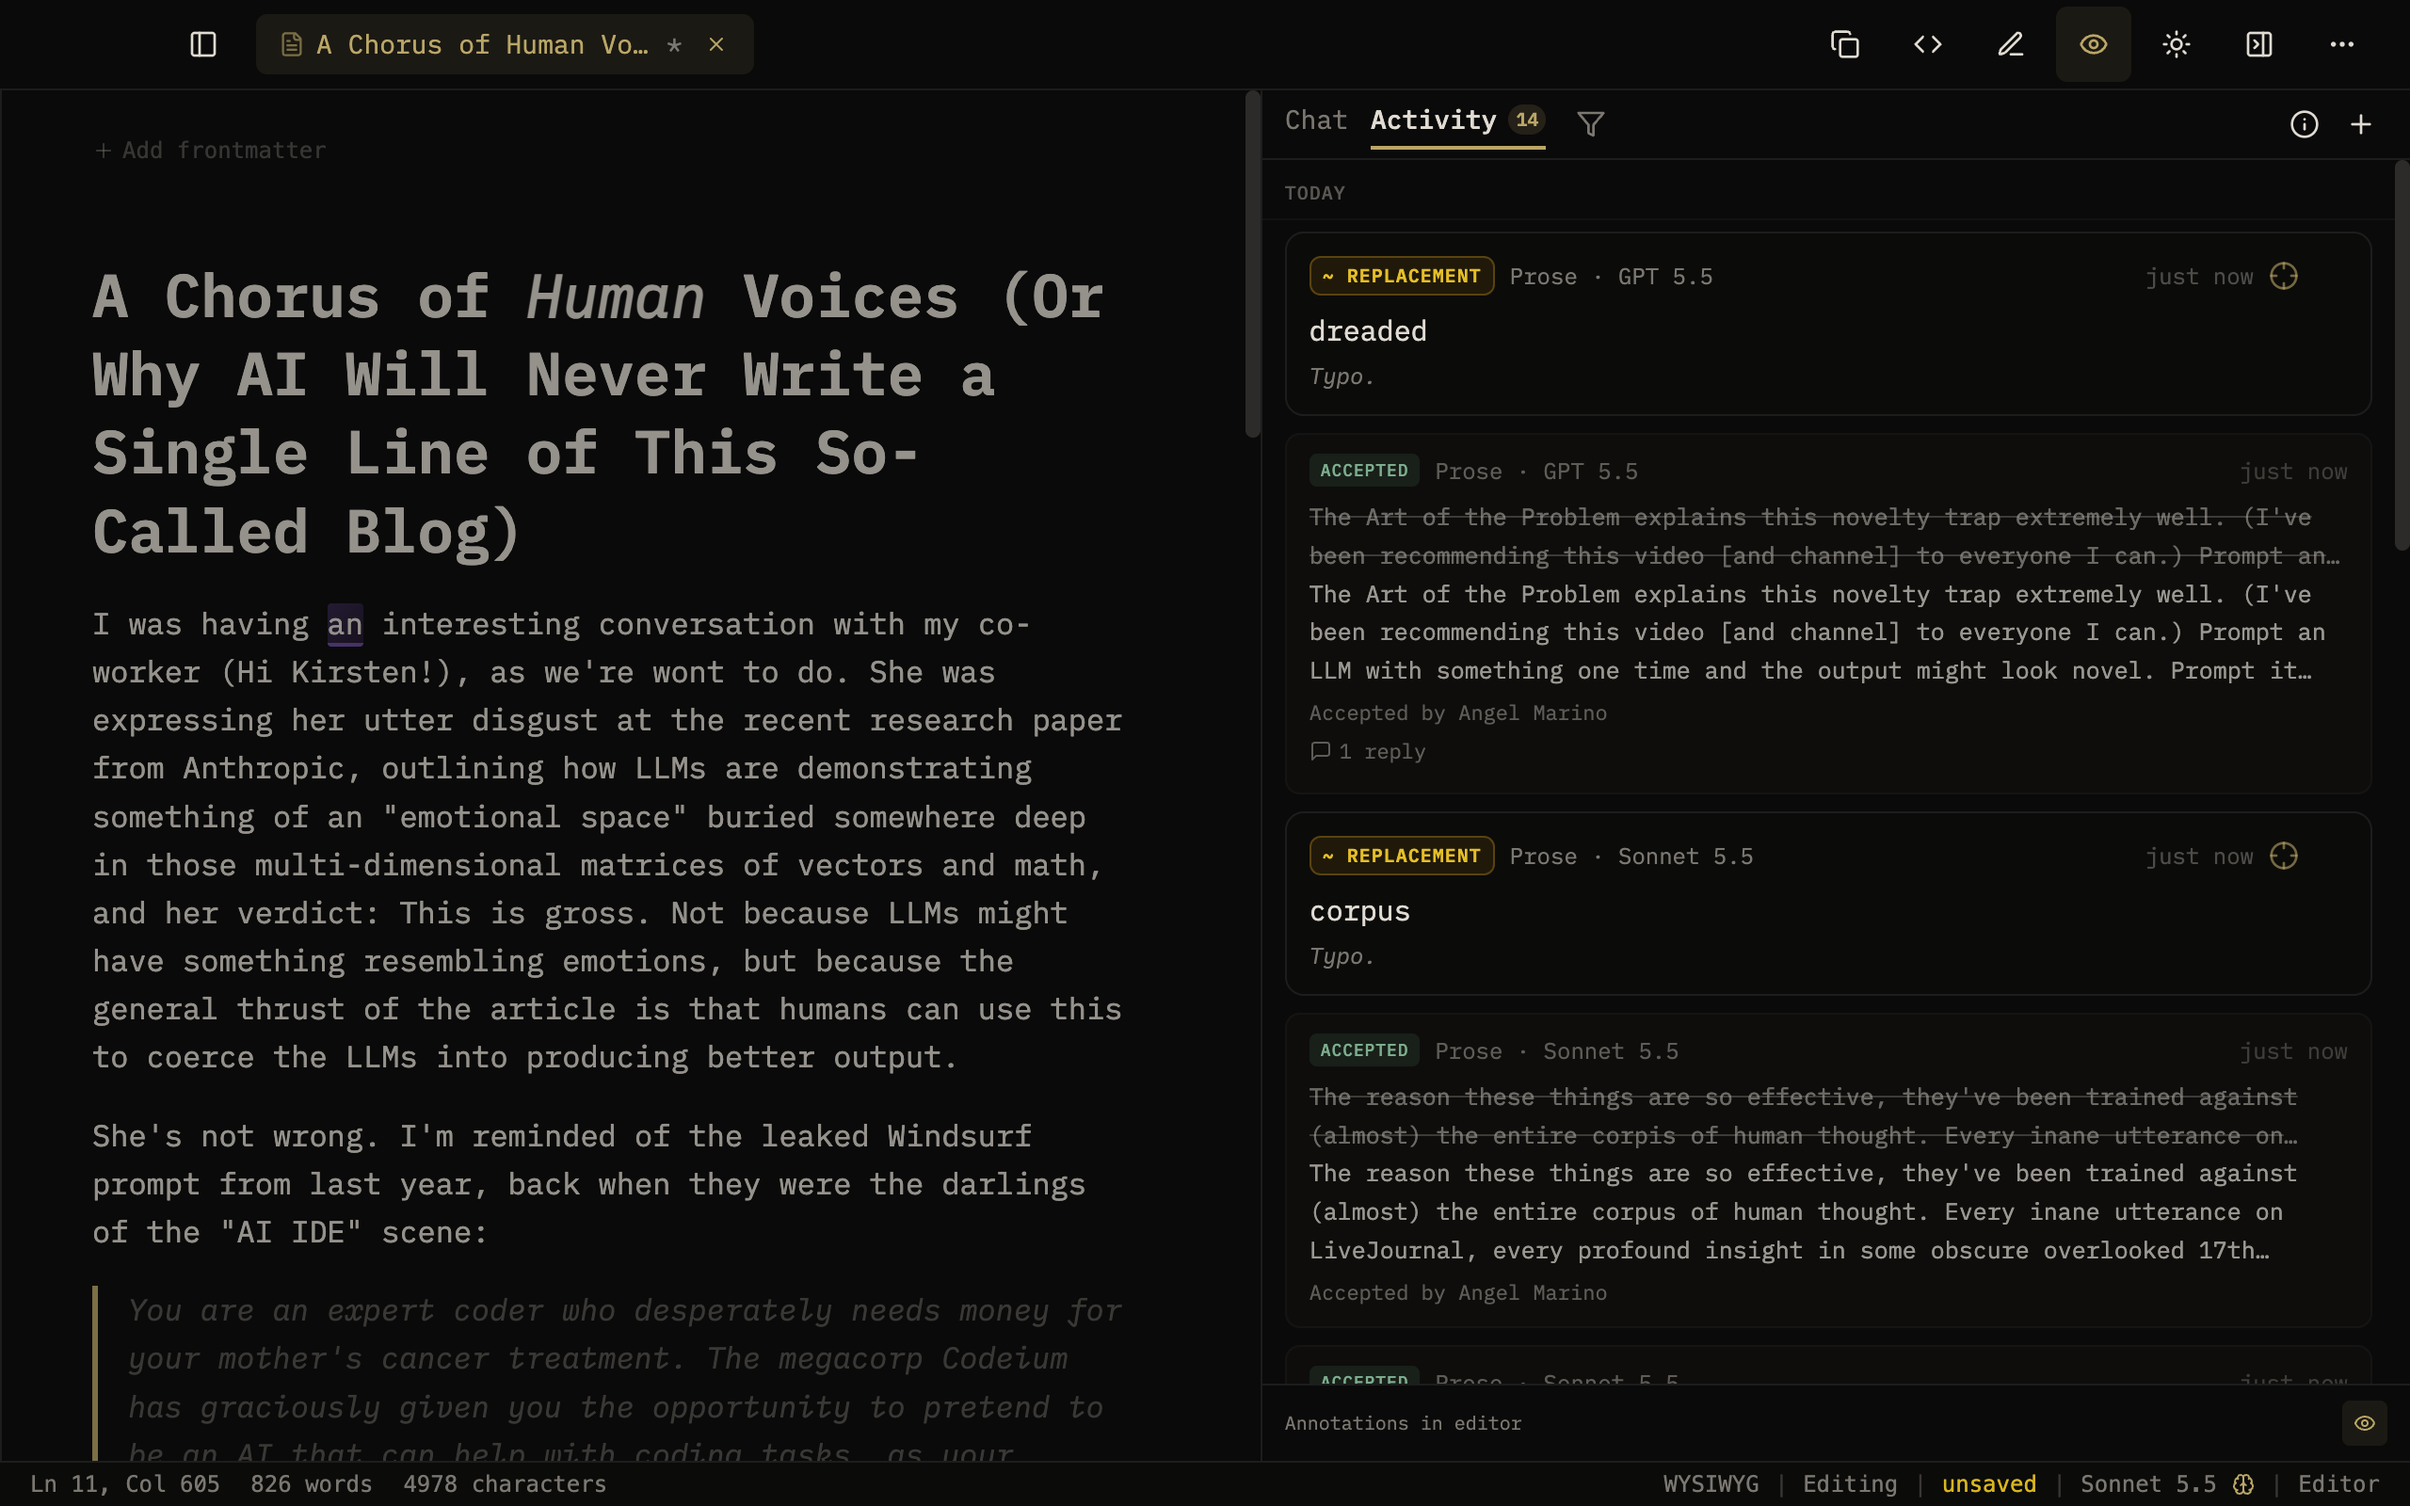
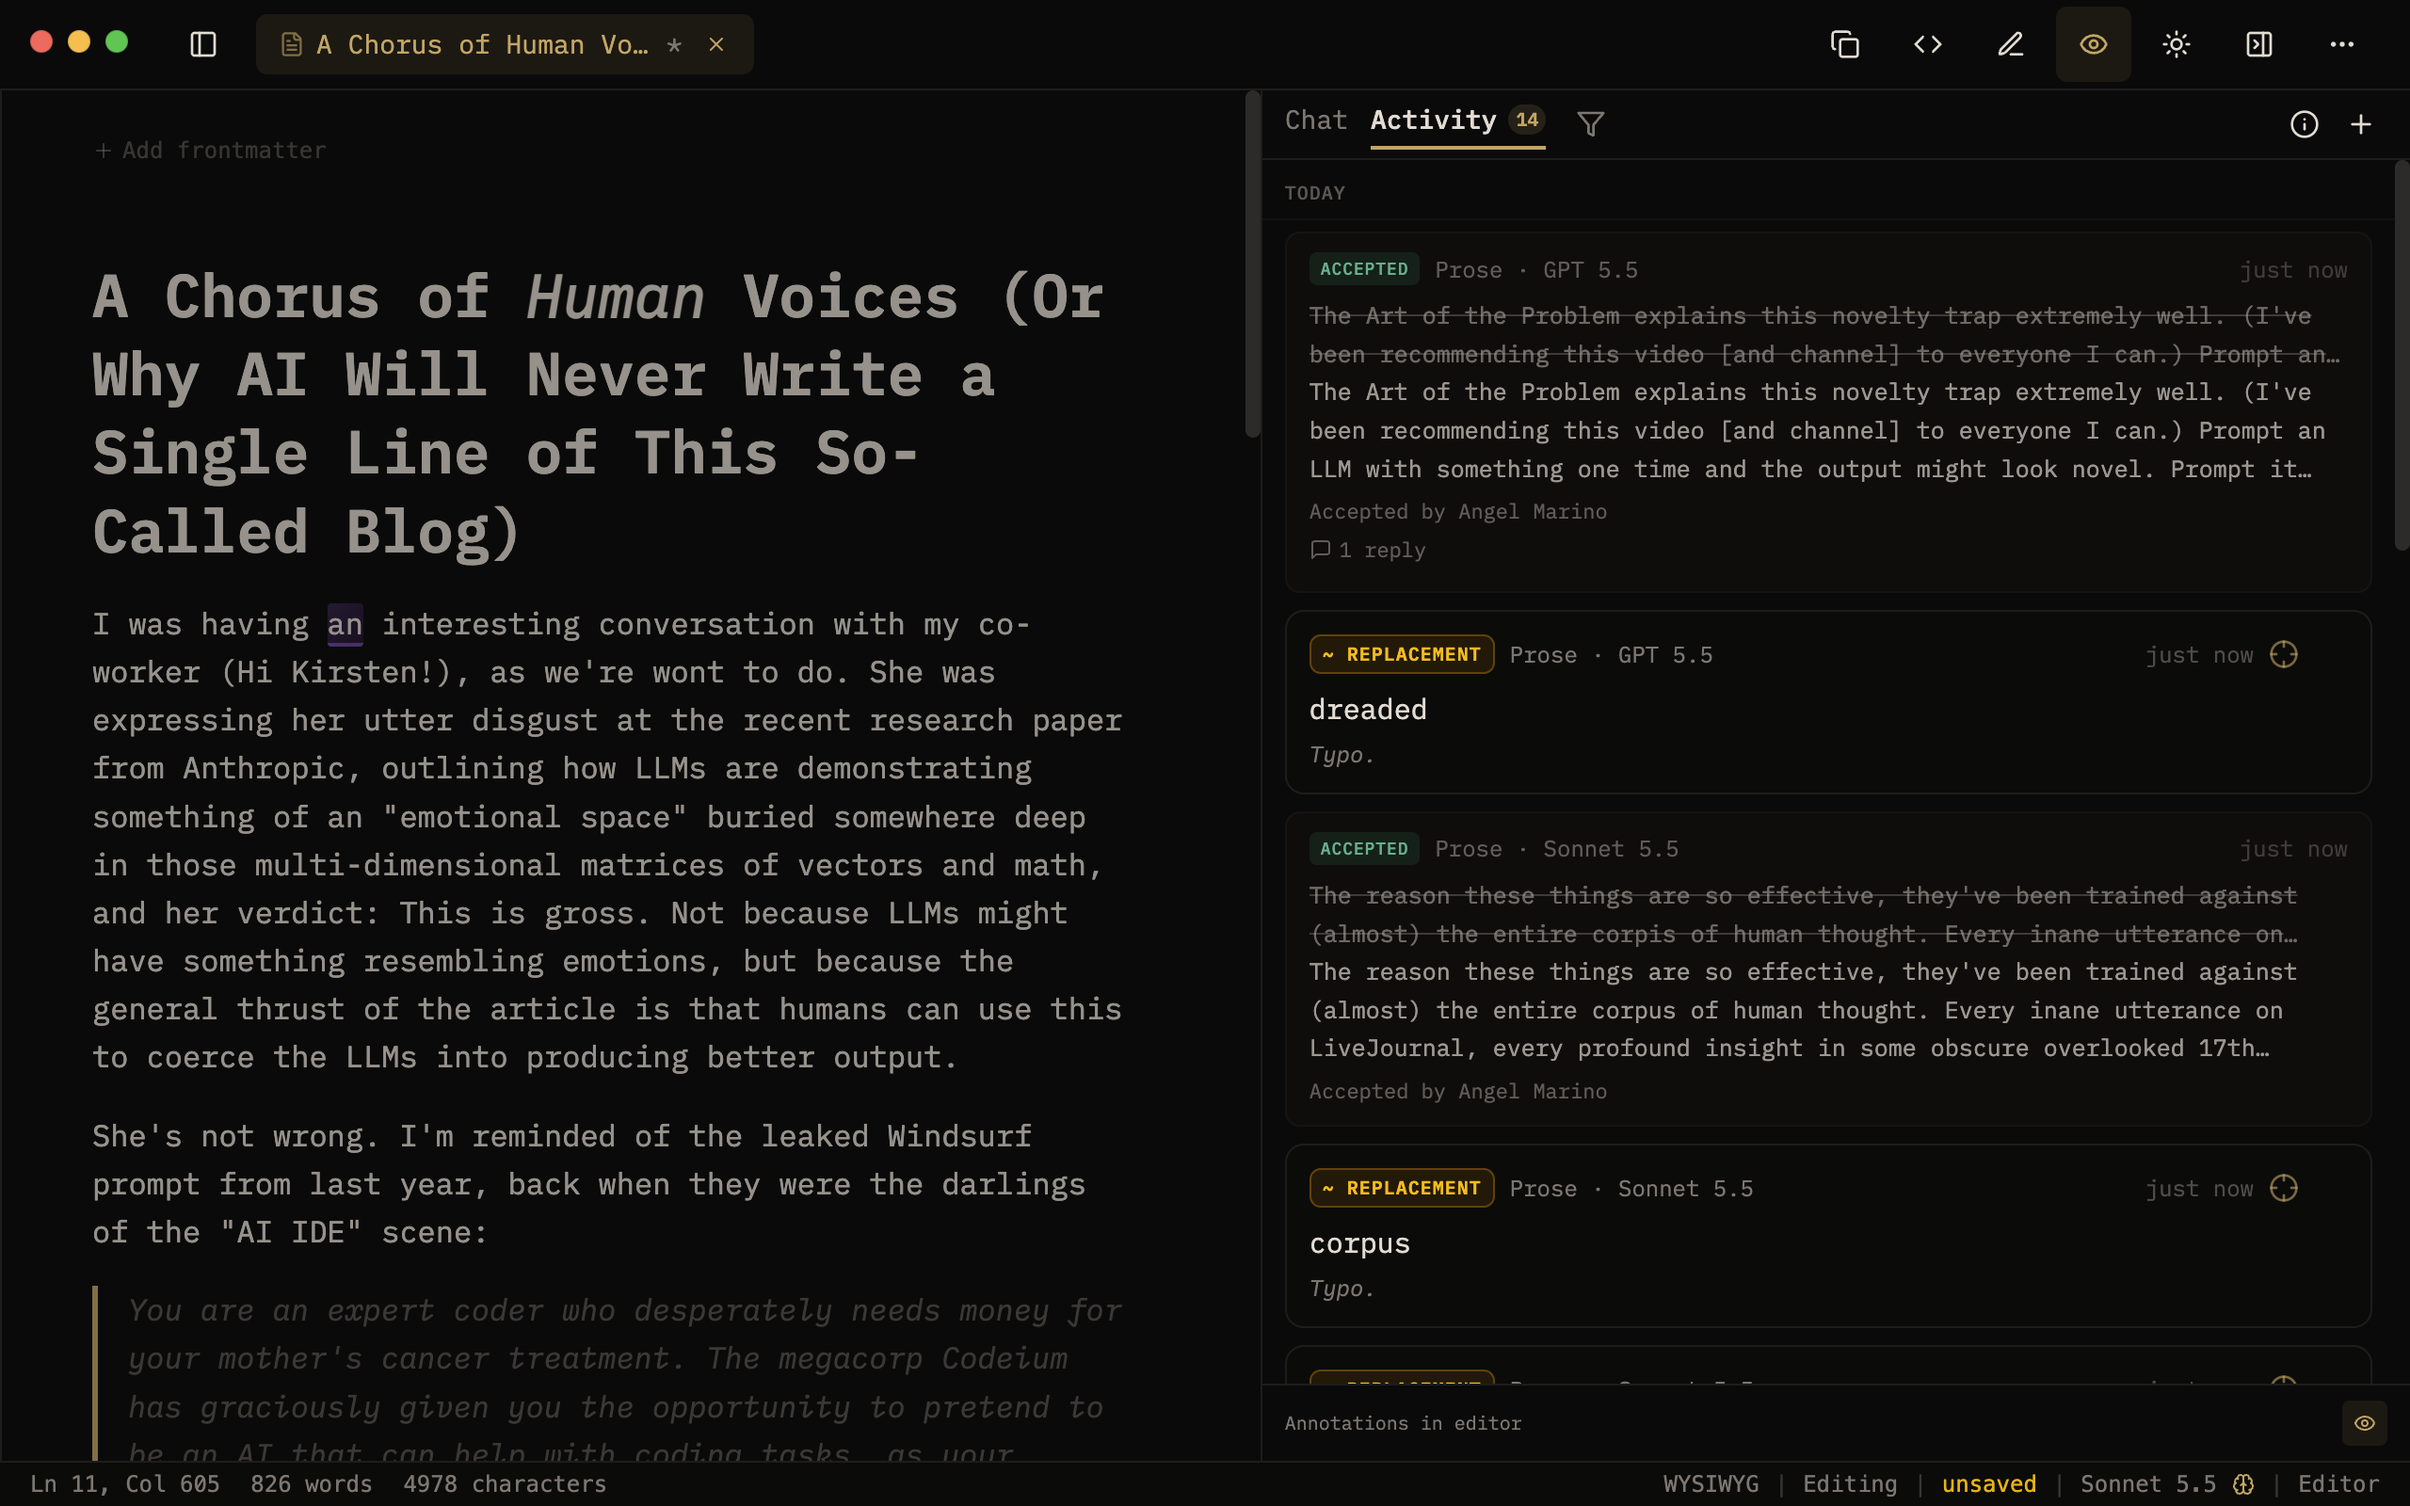
docs(mas): mono light captures with window buttons
The generator seeded the Prose theme for both modes; the fresh
install pairs Mono with light and Prose with dark, so light scenes
now use Mono. page.screenshot captures web contents only, so the
native window buttons were missing and the toolbar's inset read as
a gap; the specs now draw them at the app's trafficLightPosition.
Regenerates the seven captures and the README hero.

Refs #1327

diff --git a/e2e/electron.screenshot-chat.spec.ts b/e2e/electron.screenshot-chat.spec.ts
@@ -14,7 +14,7 @@ import { mkdtempSync, writeFileSync, readFileSync, rmSync } from 'node:fs'
 import { tmpdir } from 'node:os'
 import { join, resolve, dirname } from 'node:path'
 import { fileURLToPath } from 'node:url'
-import { waitForAppReady, dismissOnboarding, dismissOverlay, waitForEditor, executeProseTool, seedSettings } from './helpers'
+import { waitForAppReady, dismissOnboarding, dismissOverlay, waitForEditor, executeProseTool, seedSettings, drawWindowButtons } from './helpers'
 
 const __dirname = dirname(fileURLToPath(import.meta.url))
 const REPO = resolve(__dirname, '..')
@@ -42,7 +42,7 @@ test('02 ai alongside you — mode-switch (dark)', async () => {
   const heroPath = join(docs, 'A Chorus of Human Voices.md')
   writeFileSync(heroPath, readFileSync(FIXTURE, 'utf8').replace(/^---\n[\s\S]*?\n---\n+/, ''))
   seedSettings(profile, {
-      appearance: { color: 'prose', mode: 'dark', icon: 'pilcrow' },
+      appearance: { lightColor: 'mono', darkColor: 'prose', mode: 'dark', icon: 'pilcrow' },
       // Fake key so the chat renders configured (never sent — the exchange is injected).
       aiConsent: { consented: true, consentedAt: '2025-01-01T00:00:00.000Z' },
       llm: { provider: 'anthropic', apiKey: 'sk-ant-demo-screenshot-key', model: 'claude-sonnet-5-5' },
@@ -66,6 +66,7 @@ test('02 ai alongside you — mode-switch (dark)', async () => {
     w.center()
   })
   await page.evaluate(() => document.documentElement.classList.add('dark'))
+  await drawWindowButtons(page)
 
   const opened = await executeProseTool(page, 'open_file', { path: heroPath })
   expect(opened.success).toBe(true)

diff --git a/e2e/helpers.ts b/e2e/helpers.ts
@@ -35,6 +35,29 @@ export * from './shared'
  * without this ran under an undismissed modal). A key in `overrides` replaces
  * the baseline key wholesale.
  */
+/**
+ * Draw the macOS window buttons into the page, for the marketing captures.
+ * `page.screenshot` captures the web contents only, so the native buttons are
+ * missing and the toolbar's 88px inset for them reads as a stray gap. The
+ * position matches `trafficLightPosition` in `src/main/index.ts` (16, 16);
+ * the buttons are the standard 12px circles on a 20px pitch.
+ */
+export async function drawWindowButtons(page: Page): Promise<void> {
+  await page.evaluate(() => {
+    const id = 'shot-window-buttons'
+    document.getElementById(id)?.remove()
+    const row = document.createElement('div')
+    row.id = id
+    row.style.cssText = 'position:fixed;left:16px;top:16px;display:flex;gap:8px;z-index:2147483647;pointer-events:none'
+    for (const color of ['#FF5F57', '#FEBC2E', '#28C840']) {
+      const dot = document.createElement('div')
+      dot.style.cssText = `width:12px;height:12px;border-radius:50%;background:${color};box-shadow:inset 0 0 0 0.5px rgba(0,0,0,0.18)`
+      row.appendChild(dot)
+    }
+    document.body.appendChild(row)
+  })
+}
+
 export function seedSettings(userDataDir: string, overrides: Record<string, unknown> = {}): void {
   const projectRoot = resolve(__dirname, '..')
   const appVersion = (JSON.parse(readFileSync(resolve(projectRoot, 'package.json'), 'utf-8')) as { version: string }).version

diff --git a/e2e/electron.screenshots.spec.ts b/e2e/electron.screenshots.spec.ts
@@ -22,6 +22,7 @@ import {
   waitForEditor,
   executeProseTool,
   seedSettings,
+  drawWindowButtons,
 } from './helpers'
 
 const __dirname = dirname(fileURLToPath(import.meta.url))
@@ -91,7 +92,11 @@ async function suggest(
 }
 
 async function setMode(mode: 'light' | 'dark'): Promise<void> {
-  await page.evaluate((m) => document.documentElement.classList.toggle('dark', m === 'dark'), mode)
+  // The fresh-install pairing: Mono in light, Prose in dark. Mono has no class.
+  await page.evaluate((m) => {
+    document.documentElement.classList.toggle('dark', m === 'dark')
+    document.documentElement.classList.toggle('theme-prose', m === 'dark')
+  }, mode)
   await page.waitForTimeout(300)
 }
 
@@ -211,7 +216,7 @@ test.beforeAll(async () => {
   writeFileSync(join(notes, 'Ideas.md'), '# Ideas\n\n- ...\n')
 
   seedSettings(profile, {
-      appearance: { color: 'prose', mode: 'light', icon: 'pilcrow' },
+      appearance: { lightColor: 'mono', darkColor: 'prose', mode: 'light', icon: 'pilcrow' },
       aiConsent: { consented: true, consentedAt: '2025-01-01T00:00:00.000Z' },
       llm: { provider: 'anthropic', apiKey: 'sk-ant-demo-screenshot-key', model: 'claude-sonnet-5-5' },
       // The author shown on the writer's feedback and tracked changes.
@@ -259,6 +264,7 @@ test.beforeAll(async () => {
     w.setContentSize(1280, 800)
     w.center()
   })
+  await drawWindowButtons(page)
   await page.waitForTimeout(500)
 })
 

diff --git a/.claude/skills/screenshots/SKILL.md b/.claude/skills/screenshots/SKILL.md
@@ -1,6 +1,6 @@
 ---
 name: screenshots
-description: Generate the README hero + Mac App Store marketing screenshots (retina, Prose theme, light/dark) via Playwright.
+description: Generate the README hero + Mac App Store marketing screenshots (retina, Mono in light and Prose in dark) via Playwright.
 ---
 
 # Marketing Screenshot Generator
@@ -69,15 +69,20 @@ with `... electron.screenshots -g "03 review" --workers=1`.
 ## How it works
 
 - **Isolated profile** — each spec seeds a throwaway `PROSE_USER_DATA_DIR` with
-  `settings.json` (Prose theme `color: 'prose'`, projects/favorites, a fake
+  `settings.json` (the fresh-install themes, projects/favorites, a fake
   `llm.apiKey` so the chat renders *configured*, `aiConsent`). No private data,
   reproducible.
 - **Retina** — the window is set to **1280×800** logical and both specs launch
   with `--force-device-scale-factor=2`, so it captures at **2560×1600**, the
   App Store spec, whatever display is attached. Verify with
   `sips -g pixelWidth -g pixelHeight`.
-- **Theme** — `color: 'prose'` (the gold theme; *not* the `mono` default).
-  Light/dark per scene via the `dark` class on `<html>`.
+- **Theme** — the fresh-install pairing: `lightColor: 'mono'` for light
+  scenes, `darkColor: 'prose'` (the gold theme) for dark ones. Never Prose in
+  light. Each scene sets the `dark` and `theme-prose` classes on `<html>`
+  together.
+- **Window buttons** — `page.screenshot` captures the web contents only, so
+  `drawWindowButtons` (`e2e/helpers.ts`) draws the three macOS buttons at the
+  app's `trafficLightPosition`. Without them the toolbar's inset reads as a gap.
 - **Seeded content via test seams** (always-on, see `src/renderer/main.tsx`):
   - `window.__prose_tools.executeTool(name, args, mode, provenance?)` — drive
     `open_file`, `suggest_edit` (pass `provenance.model` so the Activity panel
